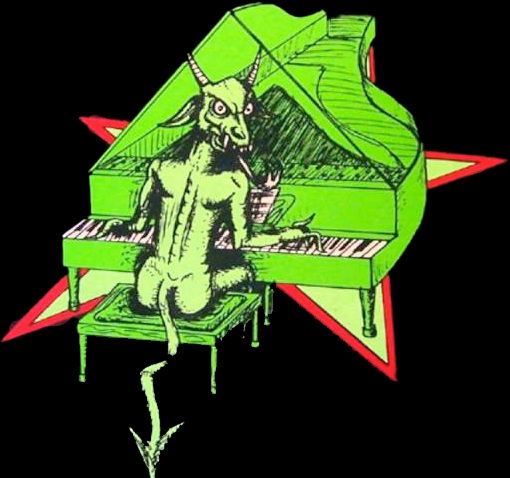
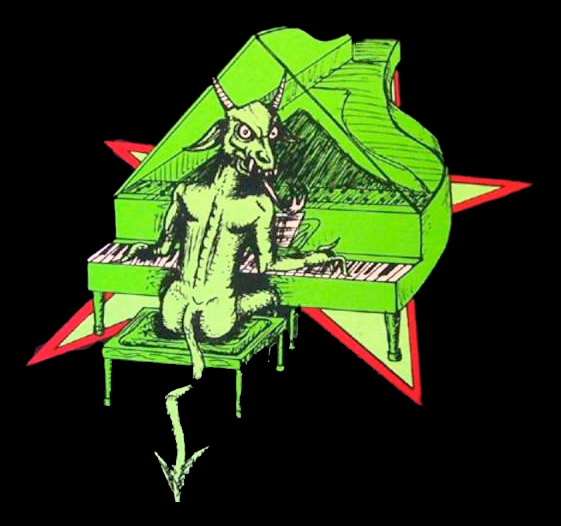
more team optimization

diff --git a/assets/css/compiled/main.css b/assets/css/compiled/main.css
@@ -2091,6 +2091,11 @@ body:has(#menu-controller:checked) {
   height: 9rem;
 }
 
+
+.h-72 {
+  height: 18rem;
+}
+
 .max-h-\[10rem\] {
   max-height: 10rem;
 }

diff --git a/content/team/index.md b/content/team/index.md
@@ -4,17 +4,19 @@ date: 2023-16-05
 layout: "simple"
 ---
 
-<figure class="inline-block mb-4">
-  <img src="shaul.jpg" alt="Shaul Pollak" width=300 class="rounded-lg mb-4" />
-  <figcaption>
-    <b>Principal Investigator</b><br>
-    Shaul Pollak, Ph.D
-  </figcaption>
-</figure>
-<figure class="inline-block mb-4">
-  <img src="devil.png" alt="You" width=320 class="rounded-lg mb-4" />
-  <figcaption class="text-right">
-    <b>You!</b><br>
-    Join us!
-  </figcaption>
-</figure>
+<div class="flex">
+  <figure class="mr-3">
+    <img src="shaul.jpg" alt="Shaul Pollak" class="rounded-lg h-72">
+    <figcaption>
+      <b>Principal Investigator</b><br>
+      Shaul Pollak, Ph.D
+    </figcaption>
+  </figure>
+  <figure class="ml-3 h-8">
+    <img src="devil.png" alt="You" class="rounded-lg h-72">
+    <figcaption class="text-left">
+      <b>You!</b><br>
+      Join us!
+    </figcaption>
+  </figure>
+</div>
